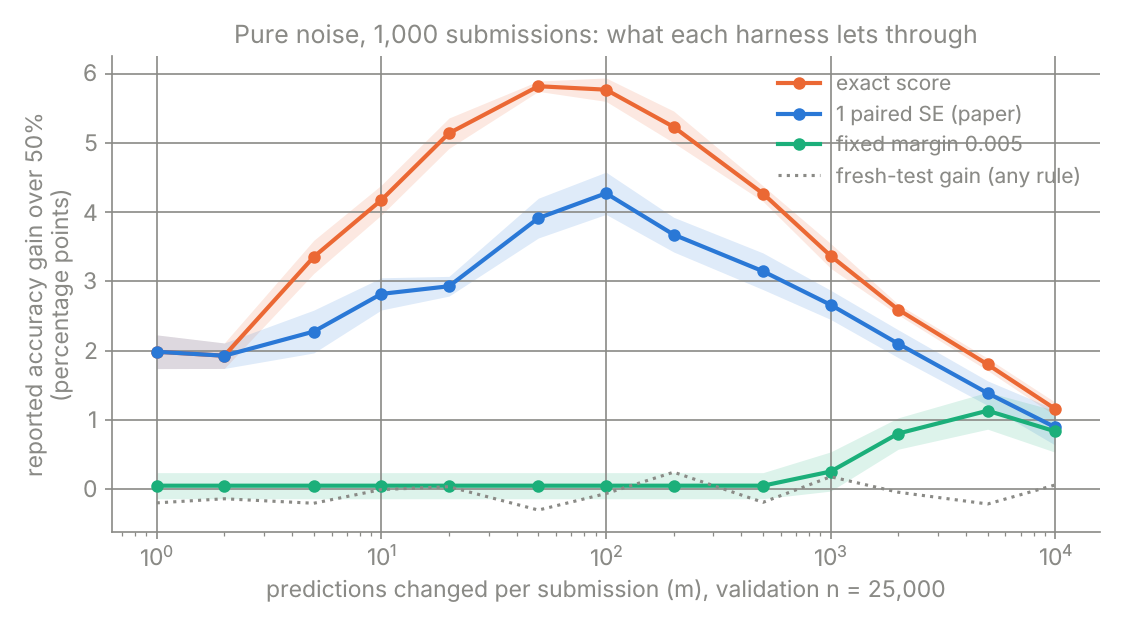
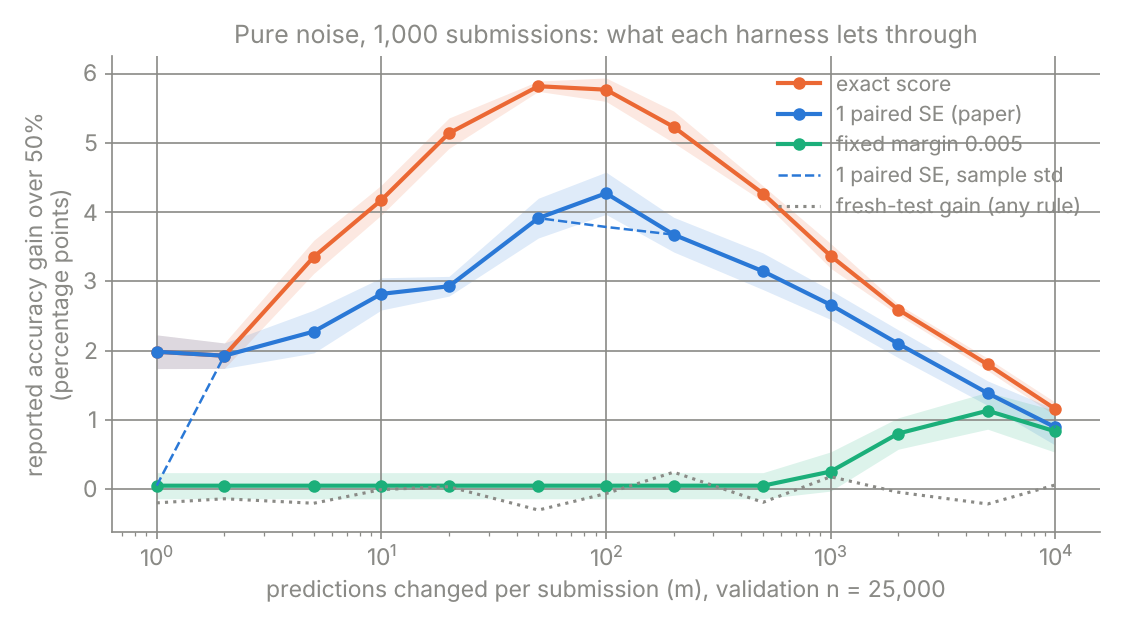
factory: feedback-contract-noise draft round 2
Claude-Session: https://claude.ai/code/session_01Gtd4DKRVApAVtvhVUttRtV

diff --git a/factory/lab/feedback-contract-noise/plot.py b/factory/lab/feedback-contract-noise/plot.py
@@ -23,6 +23,9 @@ for rule in ["exact", "pse", "ladder"]:
     e = np.array([np.std(S["sim_local"][f"{rule}/{m}"]["val_gain"], ddof=1) * 100 for m in ms])
     ax.plot(ms, v, "-o", color=C[rule], lw=2, ms=5, label=LBL[rule])
     ax.fill_between(ms, v - e, v + e, color=C[rule], alpha=0.15, lw=0)
+ms = sorted({int(k.split("/")[1]) for k in S["sim_local"] if k.startswith("pse1/")})
+v1 = [np.mean(S["sim_local"][f"pse1/{m}"]["val_gain"]) * 100 for m in ms]
+ax.plot(ms, v1, "--", color=C["pse"], lw=1.2, label="1 paired SE, sample std")
 ms = sorted({int(k.split("/")[1]) for k in S["sim_local"] if k.startswith("exact/")})
 t = [np.mean(S["sim_local"][f"exact/{m}"]["test_gain"]) * 100 for m in ms]
 ax.plot(ms, t, ":", color=INK, lw=1.5, label="fresh-test gain (any rule)")

diff --git a/factory/lab/feedback-contract-noise/agent.py b/factory/lab/feedback-contract-noise/agent.py
@@ -91,7 +91,7 @@ def main():
             m_diff, s, ok = n, np.nan, True
         else:
             m_diff = int((pv != champ_pred).sum())
-            s = float(np.std(Lc - L))           # population std, as written in Algorithm 1
+            s = float(np.std(Lc - L))           # population std; Algorithm 1 just writes "std"
             if rule == "exact":   ok = r < R
             elif rule == "pse":   ok = r < R - s / np.sqrt(n)
             elif rule == "ladder":ok = r < R - ETA

diff --git a/factory/drafts/feedback-contract-noise.md b/factory/drafts/feedback-contract-noise.md
@@ -1,6 +1,6 @@
 ---
 title: "One standard error lets one noise submission in six through"
-description: A new paper protects an ML agent's validation set by releasing a score only when a submission beats the best by one paired standard error. That test passes about 1 in 6 pure-noise submissions, so against small edits it slows fake gains (4.3 vs 5.8 points after 1,000 tries) rather than stopping them. Against the classic attack it holds, and it keeps most real gains.
+description: "A paired-standard-error release rule for ML agents stops random-guess attacks, but on pure noise it still lets a searcher making small correlated edits keep about two-thirds of exact feedback's fake gain (3.9 vs 5.8 points after 1,000 tries)."
 date: 2026-10-22
 draft: false
 ---
@@ -8,17 +8,18 @@ draft: false
 An ML agent that reads its validation score after every attempt will, given
 enough attempts, improve the validation score and nothing else. A new paper
 fixes this by showing the agent a new score only when a submission beats the
-best one by one standard error. I fed that rule 1,000 submissions of pure noise.
-It reported 4.3 points of accuracy that don't exist. Exact feedback reported 5.8.
+best one by one standard error. I fed that rule 1,000 submissions of pure noise,
+each changing 50 predictions of the current best. It reported 3.9 points of
+accuracy that don't exist. Exact feedback reported 5.8.
 
 ## Context
 
 [An Explicit Feedback Contract for Iterative ML-Agent Harnesses](https://arxiv.org/abs/2610.28798)
 (Yao et al., Walmart Global Tech, October 2026) looks at agents that develop
-models in a loop: edit code, train, read a validation score, decide what to try
-next. Each score is an honest held-out estimate. Keeping whichever edit scored
-best is not. After enough rounds the champion is partly a model that happens
-to fit *this* validation split. That is adaptive overfitting.
+models in a loop: change something, retrain, look at the validation number,
+repeat. Any single validation number is fine. The trouble is the loop: keep
+the best of many tries and the winner is partly chosen for luck on these
+particular validation rows. That is adaptive overfitting.
 
 The paper's fix is a harness "contract": the agent can't read validation labels
 or predictions, the test set is touched once at the end, and the score is
@@ -34,9 +35,10 @@ The rule is the "parameter-free Ladder" from Blum and Hardt's
 all-zeros starting loss vector and the rounding to 1/*n*. Blum and Hardt call
 the test "primarily heuristic" and put it at roughly a 0.15 significance level.
 
-On a control task with permuted labels, the paper reports a spurious gain of
-0.0157 under exact feedback and 0.0033 under the contract. Exact feedback ran
-all 30 allowed submissions; the contract stopped after about 10.
+On a control task with permuted labels, the paper reports a final validation
+gain of 0.0157 under exact feedback, which the test set doesn't support, and
+0.0033 under the contract, which it does. Exact feedback ran all 30 allowed
+submissions; the contract stopped after about 10.
 
 ## The question
 
@@ -69,6 +71,12 @@ size of the paper's Criteo validation split. Three release rules:
 | exact | 0 (any improvement) |
 | paired SE (the paper) | std(paired loss differences) / √*n* |
 | fixed margin | 0.005 (one of the margins in the paper's Table 4) |
+
+"Paired SE" is Algorithm 1 as printed, with no floor. The paper's text adds one,
+η<sub>min</sub> = *c*·*n*<sup>−1/3</sup>·log<sup>1/3</sup>(*kn*), with *c*
+unstated. Any floor above about 0.005 turns the rule into the fixed-margin row
+here. Algorithm 1 also writes "std" without saying which: I use the population
+standard deviation (numpy's default) and check the sample version separately.
 
 **Pure noise.** Labels are coin flips, so every model's true accuracy is 50% and
 any reported gain is selection. The searcher flips *m* random predictions of the
@@ -112,6 +120,7 @@ minus fresh-test gain, the part of the reported progress that isn't real.
 |---:|---:|---:|---:|
 | 2 | 1.9 | 1.9 | 0.0 |
 | 10 | 4.2 | 2.8 | 0.0 |
+| 50 | 5.8 | 3.9 | 0.0 |
 | 100 | 5.8 | 4.3 | 0.0 |
 | 1,000 | 3.4 | 2.7 | 0.3 |
 | 10,000 | 1.2 | 0.9 | 0.8 |
@@ -123,7 +132,7 @@ cell.*
 
 The paired-SE rule stops the boosting attack, as Blum and Hardt showed: 0.7
 points, against 4.5 for exact feedback. Against small edits it only slows things
-down. At *m* = 100 it lets through 74% of exact feedback's fake gain. Real
+down. At *m* = 50 it lets through two-thirds of exact feedback's fake gain. Real
 accuracy on fresh labels is 50% throughout.
 
 The first-step pass rate matches the z = 1 arithmetic. With a champion that
@@ -136,7 +145,10 @@ standard deviation (`np.std`'s default), a one-row improvement always clears the
 bar: the threshold is √(1 − 1/*n*)/*n*, just under the 1/*n* the score moves by.
 At *m* = 1 the rule then behaves exactly like exact feedback. Blum and Hardt
 specify the sample standard deviation, which blocks *m* = 1. It doesn't help at
-*m* = 2.
+*m* = 2. The same edge appears whenever *m* is a perfect square, where an
+improvement of exactly √*m* rows sits on the bar: at *m* = 100 the sample
+version gives 3.8 points instead of 4.3, which is the bump in the blue curve.
+At the other sizes in the table the two versions agree.
 
 The curves rise and then fall because the gain eats itself. A champion that is
 lucky on the validation set loses some of that luck with every flipped row: of
@@ -152,8 +164,9 @@ Realistic edits are not small in this sense. On the coin-flip labels, a one-step
 tweak changes a third of the validation predictions (median 8,300 of 25,000). A
 boosted tree fit to noise reshuffles its noise whenever you touch it. On
 learnable labels a tweak changes about 600 predictions, and adding a member to
-a growing ensemble changes 36–107 (median, depending on how big the ensemble has
-grown).
+a growing ensemble changes a median of 36–107 (about 300 for the first few
+additions, fewer as the ensemble grows). On coin-flip labels ensemble edits
+change 1,300–4,000.
 
 | searcher, labels | rule | accepted (of 199) | val gain | test gain | inflation | inflation, patience 5 |
 |---|---|---:|---:|---:|---:|---:|
@@ -172,45 +185,48 @@ the same runs with a stop after 5 consecutive submissions without an update
 
 Three readings. First, a scripted searcher on 25,000 validation rows doesn't
 overfit much: under a point of inflation after 200 submissions, even with exact
-feedback. The paired-SE rule roughly halves it on coin-flip labels, but the
+feedback. The paired-SE rule cuts it by 40–55% on coin-flip labels, but the
 seed-to-seed spread is as large as the difference.
 
 Second, the patience stop does as much as the threshold. Exact feedback plus
 "stop after 5 rounds without improvement" lands within noise of the paired-SE
 rule without one. With the same patience of 5, exact feedback stopped after
 8–20 submissions and the paired-SE rule after 6–10: a threshold that accepts
-less often makes the patience counter fire sooner. The paper's exact-feedback
-agents never stopped before the cap, so its LLM agents kept finding
-"improvements" more often than my scripts did.
+less often makes the patience counter fire sooner. In the paper, exact
+feedback ran to the 30-submission cap on Criteo and the control, with a patience
+it doesn't state.
 
 Third, the cost. On learnable labels, ensembling is worth +0.38 points on fresh
 test data. The paired-SE rule keeps +0.32 of it with a quarter of the updates.
 The fixed 0.005 margin keeps nothing, because no single real improvement here
-is that big. The margin that Blum and Hardt's theory needs is worse:
+is that big. The margin in Blum and Hardt's theorem is worse:
 *n*<sup>−1/3</sup>·log<sup>1/3</sup>(*kn*) is 0.085 at *n* = 25,000 and
-*k* = 200, more than 20 times the whole real gain. The paper puts a floor of
-that form, times a constant *c*, under its rule, and doesn't give *c*.
+*k* = 200 with the constant set to 1, more than 20 times the whole real gain.
+That is the floor the paper adds, with its constant unstated.
 
 ## What it means
 
 The paired-SE rule is a sensible default with a narrow guarantee. Its
 protection depends on what your submissions look like. It holds against
 independent guesses, because each accepted guess raises the bar for the next
-one. It barely slows a searcher that makes many correlated small edits, because
-every edit is a fresh 16% chance. Agents that tune, blend and patch are closer
+one. It only slows a searcher that makes many correlated small edits: each
+edit gets a fresh chance at a one-standard-error fluke (16% against an
+unselected champion, fewer once the champion is itself a lucky pick), and at
+50–100 rows per edit it still lets through two-thirds to three-quarters of
+exact feedback's fake gain. Agents that tune, blend and patch are closer
 to the second kind. On the evidence here, the thing that actually limits damage
 is the number of submissions: a patience stop, a budget, or both.
 
 What I'd take from it if I were writing an agent harness:
 
 - Log *m*, the number of validation predictions each submission changes. It
-  tells you which regime you're in, and the agent doesn't need labels to compute
-  it.
+  tells you which regime you're in. The harness can log it without releasing
+  anything, and it needs no labels.
 - Use the paired-SE rule over a fixed margin. A fixed margin is either too big,
   blocking real gains, or too small to matter, and you can't tell which in
   advance.
-- Keep the patience stop and treat it as the main defense. Count accepted
-  updates, not raw improvements.
+- Keep the patience stop and treat it as the main defense. As the paper's
+  contract already says, count accepted updates, not raw improvements.
 - Score the final model once on a test set the loop never saw. That is the only
   number in this post that never lied.
 
@@ -218,8 +234,9 @@ What I'd take from it if I were writing an agent harness:
 not just hyperparameters, and its edit sizes may be different. Everything here
 is 0-1 loss. The paper scores Criteo with AUC, which is not an average of
 per-example losses, and it doesn't say what vector the standard deviation is
-taken over. Validation size is fixed at 25,000. Smaller sets make every effect
-here larger. Five seeds separate the pure-noise curves cleanly; for the
+taken over. Validation size is fixed at 25,000. Smaller sets should make every
+effect here larger (untested here; the paper's Table 3 reports larger gaps at
+smaller validation sizes). Five seeds separate the pure-noise curves cleanly; for the
 hill-climber they don't separate paired SE from exact feedback on inflation. I
 didn't test Thresholdout or other differential-privacy mechanisms.
 

diff --git a/factory/lab/feedback-contract-noise/README.md b/factory/lab/feedback-contract-noise/README.md
@@ -25,8 +25,8 @@ feedback and a fixed-margin Ladder (η = 0.005). CPU only, numpy + scikit-learn.
 ## Rules
 
 - `exact`: champion = any submission with lower validation error.
-- `pse`: accept if error < champion error − std(paired loss difference)/√n, `np.std` with ddof = 0,
-  as Algorithm 1 writes it (`pse1` in `sim.py` uses ddof = 1). The released score is rounded to 1/n,
+- `pse`: accept if error < champion error − std(paired loss difference)/√n, `np.std` with ddof = 0 (Algorithm 1 writes only "std"; this is our reading;
+  `pse1` in `sim.py` uses ddof = 1, as Blum & Hardt specify). The released score is rounded to 1/n,
   which for 0-1 loss changes nothing.
 - `ladder`: accept if error < champion error − 0.005.
 
